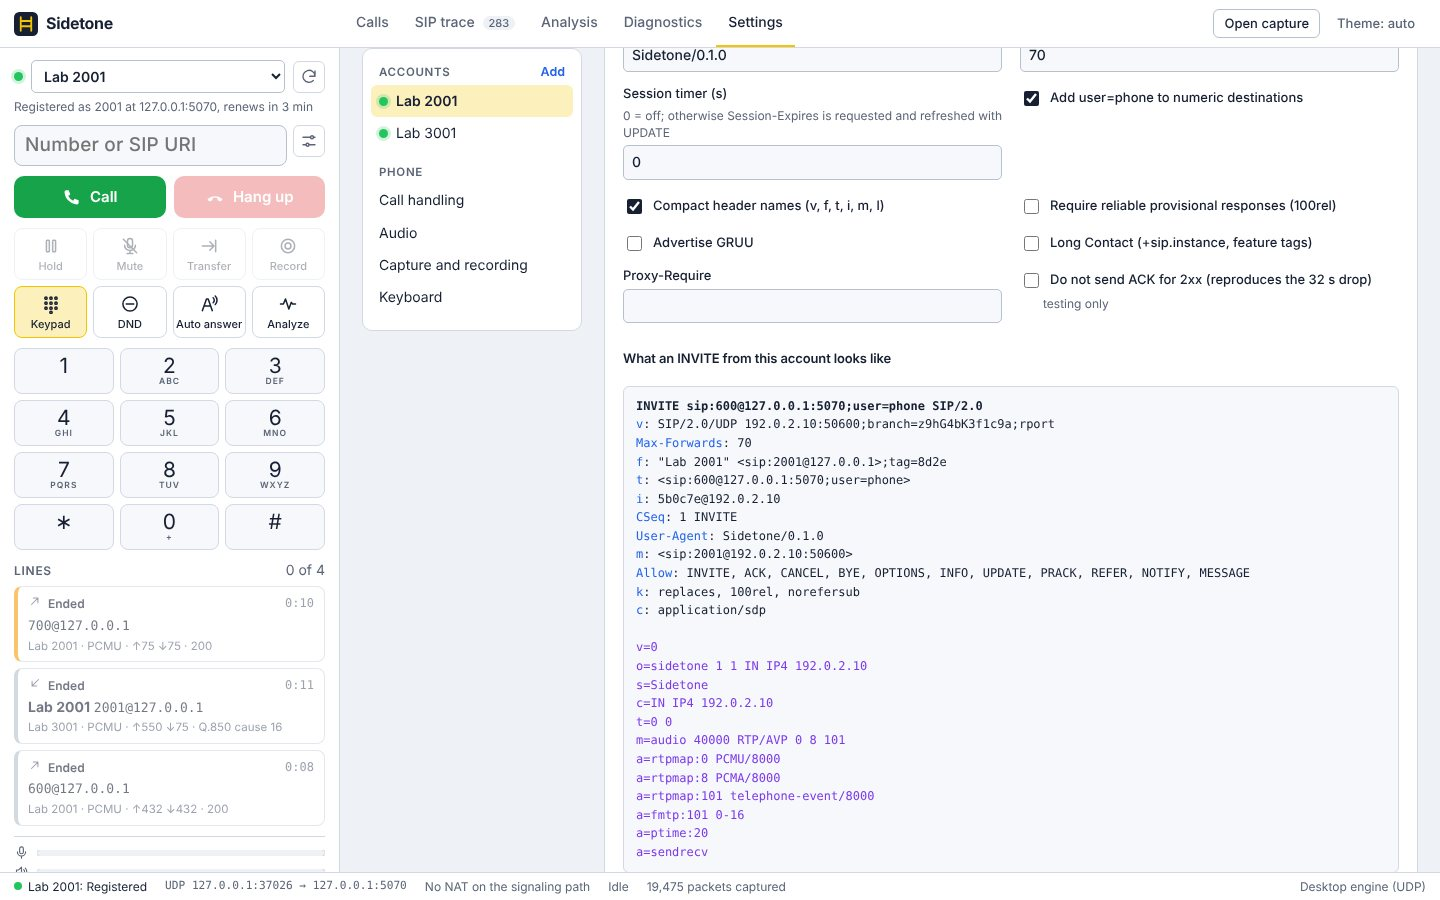
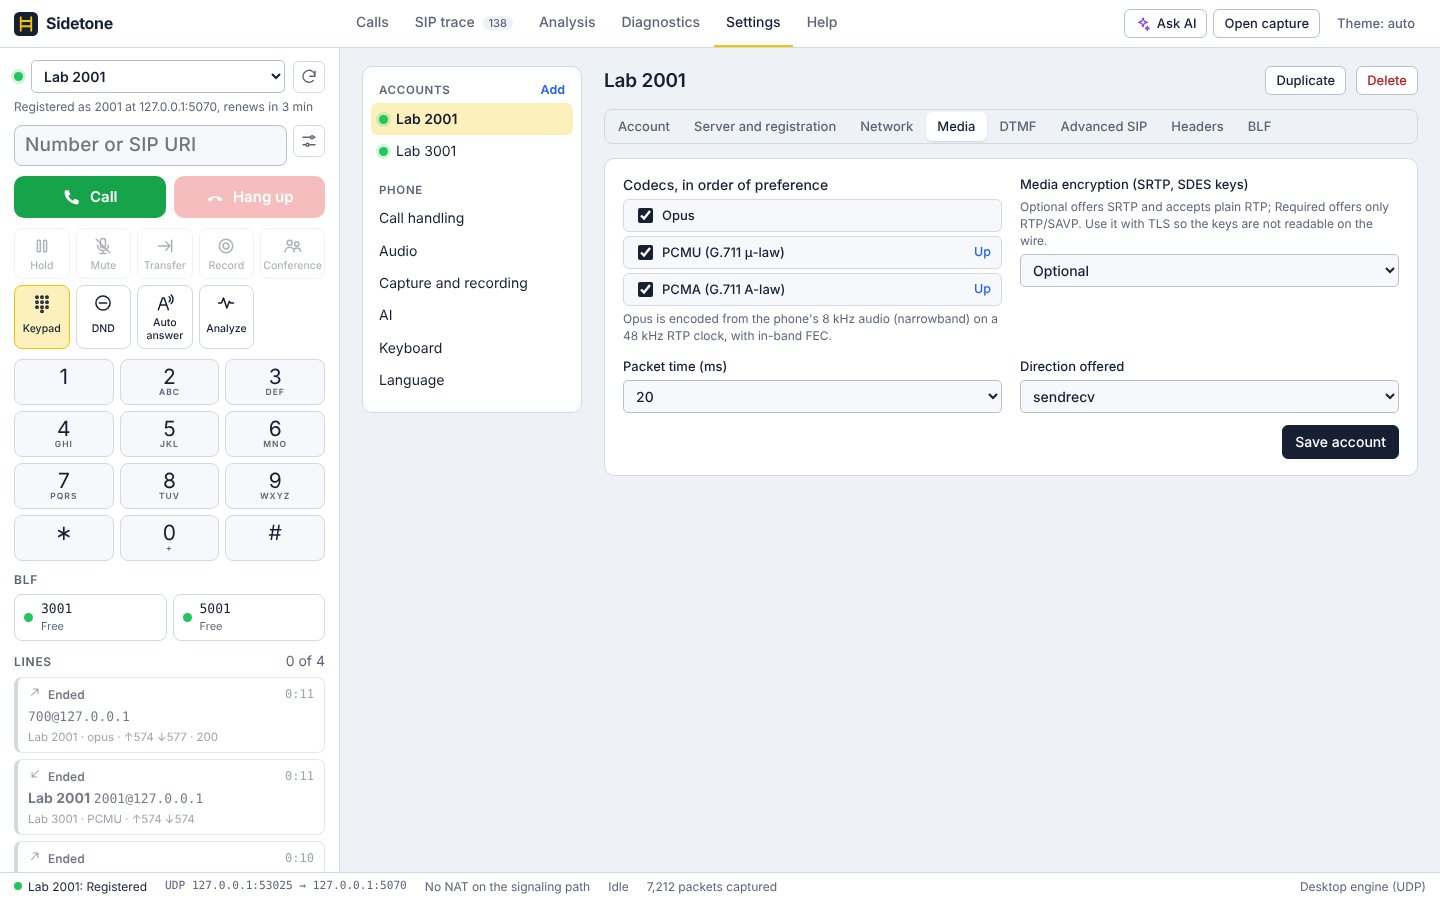
README: new screenshots (conference, BLF, Opus, SRTP, Help in Portuguese); WebRTC calls show DTLS-SRTP
Claude-Session: https://claude.ai/code/session_01Jg9himHqUuWDmFeDk21hdv

diff --git a/web/app.js b/web/app.js
@@ -760,7 +760,7 @@ function renderCallDetail() {
       ["Call-ID", m(l.call_id)],
       ["Talk time", l.answered_ms ? dur((l.ended_ms || now) - l.answered_ms) : ""],
       ["Codec", esc(l.codec || "")],
-      ["Media encryption", l.srtp ? `SRTP (AES_CM_128_HMAC_SHA1)${l.srtp_failed ? ` <span class="bad">${l.srtp_failed} packets failed authentication</span>` : ""}` : l.state === "connected" ? "none (RTP)" : ""],
+      ["Media encryption", S.ctl.kind !== "native" && l.state === "connected" ? "DTLS-SRTP (WebRTC)" : l.srtp ? `SRTP (AES_CM_128_HMAC_SHA1)${l.srtp_failed ? ` <span class="bad">${l.srtp_failed} packets failed authentication</span>` : ""}` : l.state === "connected" ? "none (RTP)" : ""],
       ["Local media", l.local_media ? m(l.local_media) : ""],
       ["Remote media", l.remote_media ? m(l.remote_media) : ""],
       ["RTP sent / received", l.rtp_sent || l.rtp_received ? `${l.rtp_sent.toLocaleString()} / ${l.rtp_received.toLocaleString()}${l.state === "connected" && !l.held && l.rtp_sent > 100 && l.rtp_received === 0 ? ` <span class="bad">no audio from the far end</span>` : ""}` : ""],

diff --git a/README.md b/README.md
@@ -33,9 +33,9 @@
 <br>
 
 <p align="center">
-  <img src="docs/images/sidetone-phone.jpg" alt="Sidetone on the desktop: the phone panel on the left with account Lab 2001 registered, Call and Hang up, a toolbar with Resume, Mute, Transfer, Record, Keypad, DND, Auto answer and Analyze, the transfer box open with Blind and Consult first, the keypad and three lines (one on hold); on the right the Calls page with the current call's media addresses, codec and RTP counters, the phone event log and the call history with 404 and 486 results" width="100%">
+  <img src="docs/images/sidetone-phone.jpg" alt="Sidetone on the desktop: the phone panel on the left with account Lab 2001 registered, the toolbar with Conference active, the keypad, BLF lamps showing 3001 busy and 5001 free, and three connected lines, two of them joined in a conference; on the right the current call with Opus as codec, media addresses and RTP counters, the phone event log ending in conference: lines 4 and 6 joined, and the call history with 404 and 486 results" width="100%">
   <br>
-  <sub>Three lines on one account: a call on hold, a transfer about to happen, every event and result in plain words.</sub>
+  <sub>Three lines, two of them in a local conference, Opus on the wire, BLF lamps, every event and result in plain words.</sub>
 </p>
 
 <p align="center">
@@ -116,11 +116,11 @@ are in the dark theme (the Theme button, or your system setting).
   </tr>
   <tr>
     <td width="50%" valign="top">
-      <img src="docs/images/sidetone-settings.jpg" alt="Account settings on the Advanced SIP tab: User-Agent, Max-Forwards, session timer, user=phone and compact header names ticked, PRACK, GRUU, long Contact, Proxy-Require and skip ACK, with a preview of the INVITE this account sends using compact header names and user=phone" width="100%">
+      <img src="docs/images/sidetone-settings.jpg" alt="Account settings on the Media tab: codecs in order of preference with Opus, PCMU and PCMA ticked, SRTP media encryption set to Optional, packet time and offered direction, and tabs for Account, Server and registration, Network, Media, DTMF, Advanced SIP, Headers and BLF" width="100%">
       <br>
-      <sub>Account settings with a live preview of the INVITE they produce.</sub>
+      <sub>Per-account media: Opus and G.711 in your order, SRTP off, optional or required.</sub>
       <h3>Every knob a desk phone has, and a preview</h3>
-      Per account: outbound proxy, expiry and retry, keepalives, local IP and port, rport, symmetric RTP, RTP ports, DSCP, SDP address override, T1, codec order, ptime, DTMF mode and payload type, session timers, <code>user=phone</code>, compact headers, PRACK, GRUU, long Contact, extra headers. Some exist to reproduce a broken client on purpose, like skipping the ACK.
+      Per account: UDP, TCP or TLS, outbound proxy, expiry and retry, keepalives, local IP and port, rport, symmetric RTP, RTP ports, DSCP, SDP address override, T1, codec order (Opus, PCMU, PCMA), SRTP, ptime, DTMF mode and payload type, session timers, <code>user=phone</code>, compact headers, PRACK, GRUU, long Contact, extra headers, BLF extensions, and a preview of the INVITE they produce. Some exist to reproduce a broken client on purpose, like skipping the ACK.
     </td>
     <td width="50%" valign="top">
       <img src="docs/images/sidetone-diag.jpg" alt="Dark theme: the Diagnostics page with an OPTIONS ping answered 200 OK in 4 ms by Asterisk, a DNS lookup showing where UDP requests go, the NAT card with STUN servers and what the SIP server sees for each account, and the Audio card with microphone and speaker choice, level meters and a loopback test" width="100%">
@@ -132,18 +132,29 @@ are in the dark theme (the Theme button, or your system setting).
   </tr>
   <tr>
     <td width="50%" valign="top">
-      <img src="docs/images/sidetone-ai.jpg" alt="Dark theme: the Ask AI tab with provider, model, base URL, API key, language, a masking checkbox ticked, a question about a remote worker, and the masked prompt preview" width="100%">
+      <img src="docs/images/sidetone-ai.jpg" alt="Dark theme: a capture with one NAT call in Analysis, the ladder with retransmitted 200 OK responses, and the Ask AI tab showing the provider and model from Settings, a masking checkbox ticked, a question about a remote worker, and the masked prompt preview" width="100%">
       <br>
       <sub>Ask AI, with "Show what will be sent" before anything leaves.</sub>
       <h3>An AI second opinion</h3>
       An AI panel docked under any page lets you hold a conversation about the selected call, the live trace or a capture: the model gets the findings, the ladder, the RTP statistics and the relevant raw messages, masked by default. Configure it once in Settings, AI: Anthropic, any OpenAI-compatible service (OpenAI, Gemini, OpenRouter, Groq, Mistral, DeepSeek, LM Studio, vLLM) or a local Ollama, with a connection test.
     </td>
     <td width="50%" valign="top">
-      <img src="docs/images/sidetone-webrtc.jpg" alt="The browser version registered over WebSocket as 4001, a call to 600 connected with Opus, live packet counters and the ICE path, the phone events and DTMF sent as RFC 4733" width="100%">
+      <img src="docs/images/sidetone-webrtc.jpg" alt="The browser version registered over WebSocket as 4001, a call to 600 connected with Opus over DTLS-SRTP, live packet counters and the ICE path, the phone events and DTMF sent as RFC 4733" width="100%">
       <br>
       <sub>No install: the browser version on GitHub Pages, calling over WebRTC.</sub>
       <h3>The same phone in the browser</h3>
       On GitHub Pages Sidetone talks SIP over WebSocket (RFC 7118) with WebRTC audio, so it reaches any PBX or SBC with a WSS listener. One line at a time with hold, mute, blind transfer and DTMF; analysis runs in the page through WebAssembly.
+    </td>
+  </tr>
+  <tr>
+    <td width="50%" valign="top">
+      <img src="docs/images/sidetone-help.jpg" alt="The interface in Portuguese (Brazil): the Help page with sections on getting started, making calls, hold and transfer, and TCP, TLS, SRTP, BLF and conference, and the language selector" width="100%">
+      <br>
+      <sub>The interface and the built-in help in Portuguese.</sub>
+      <h3>Your language, with help built in</h3>
+      English, Portuguese (Brazil), Spanish and German, switched in Settings or on the Help page. SIP messages, traces and findings stay in English, so what you paste into a ticket reads the same for everyone. Help covers accounts, calls, transfers, TCP/TLS, SRTP, BLF, conference, analysis and common problems.
+    </td>
+    <td width="50%" valign="top">
     </td>
   </tr>
 </table>
